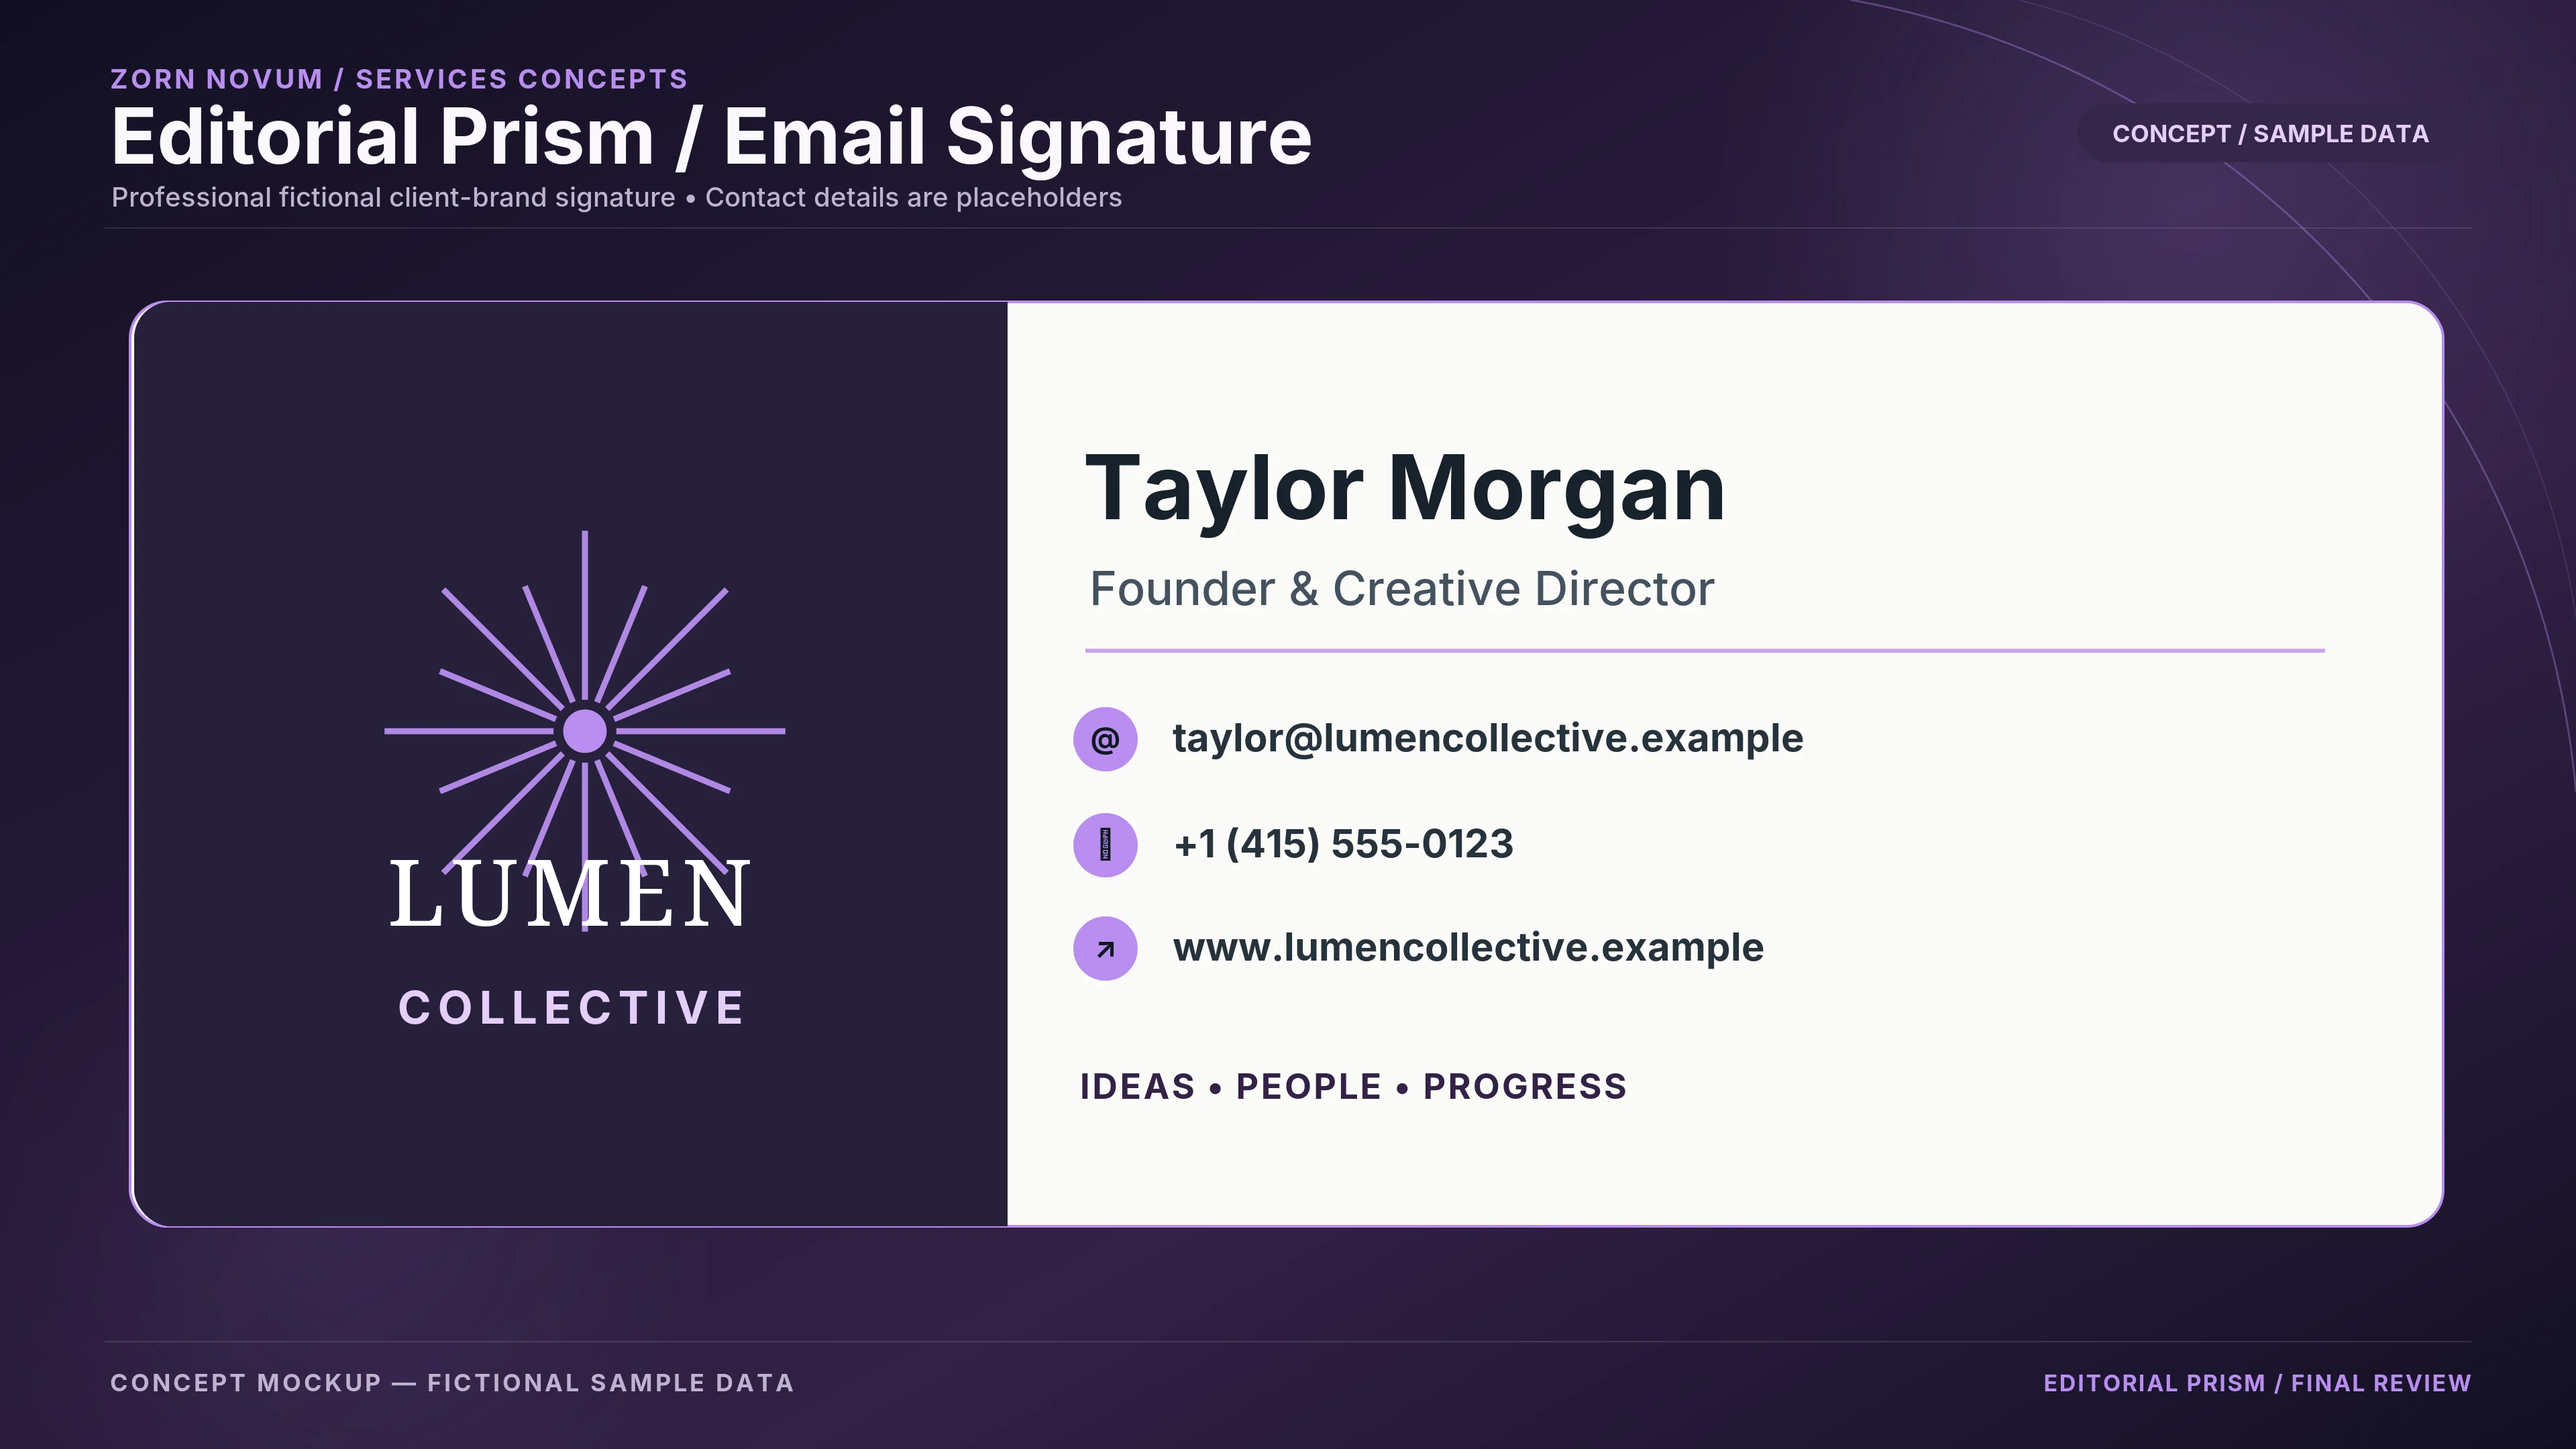
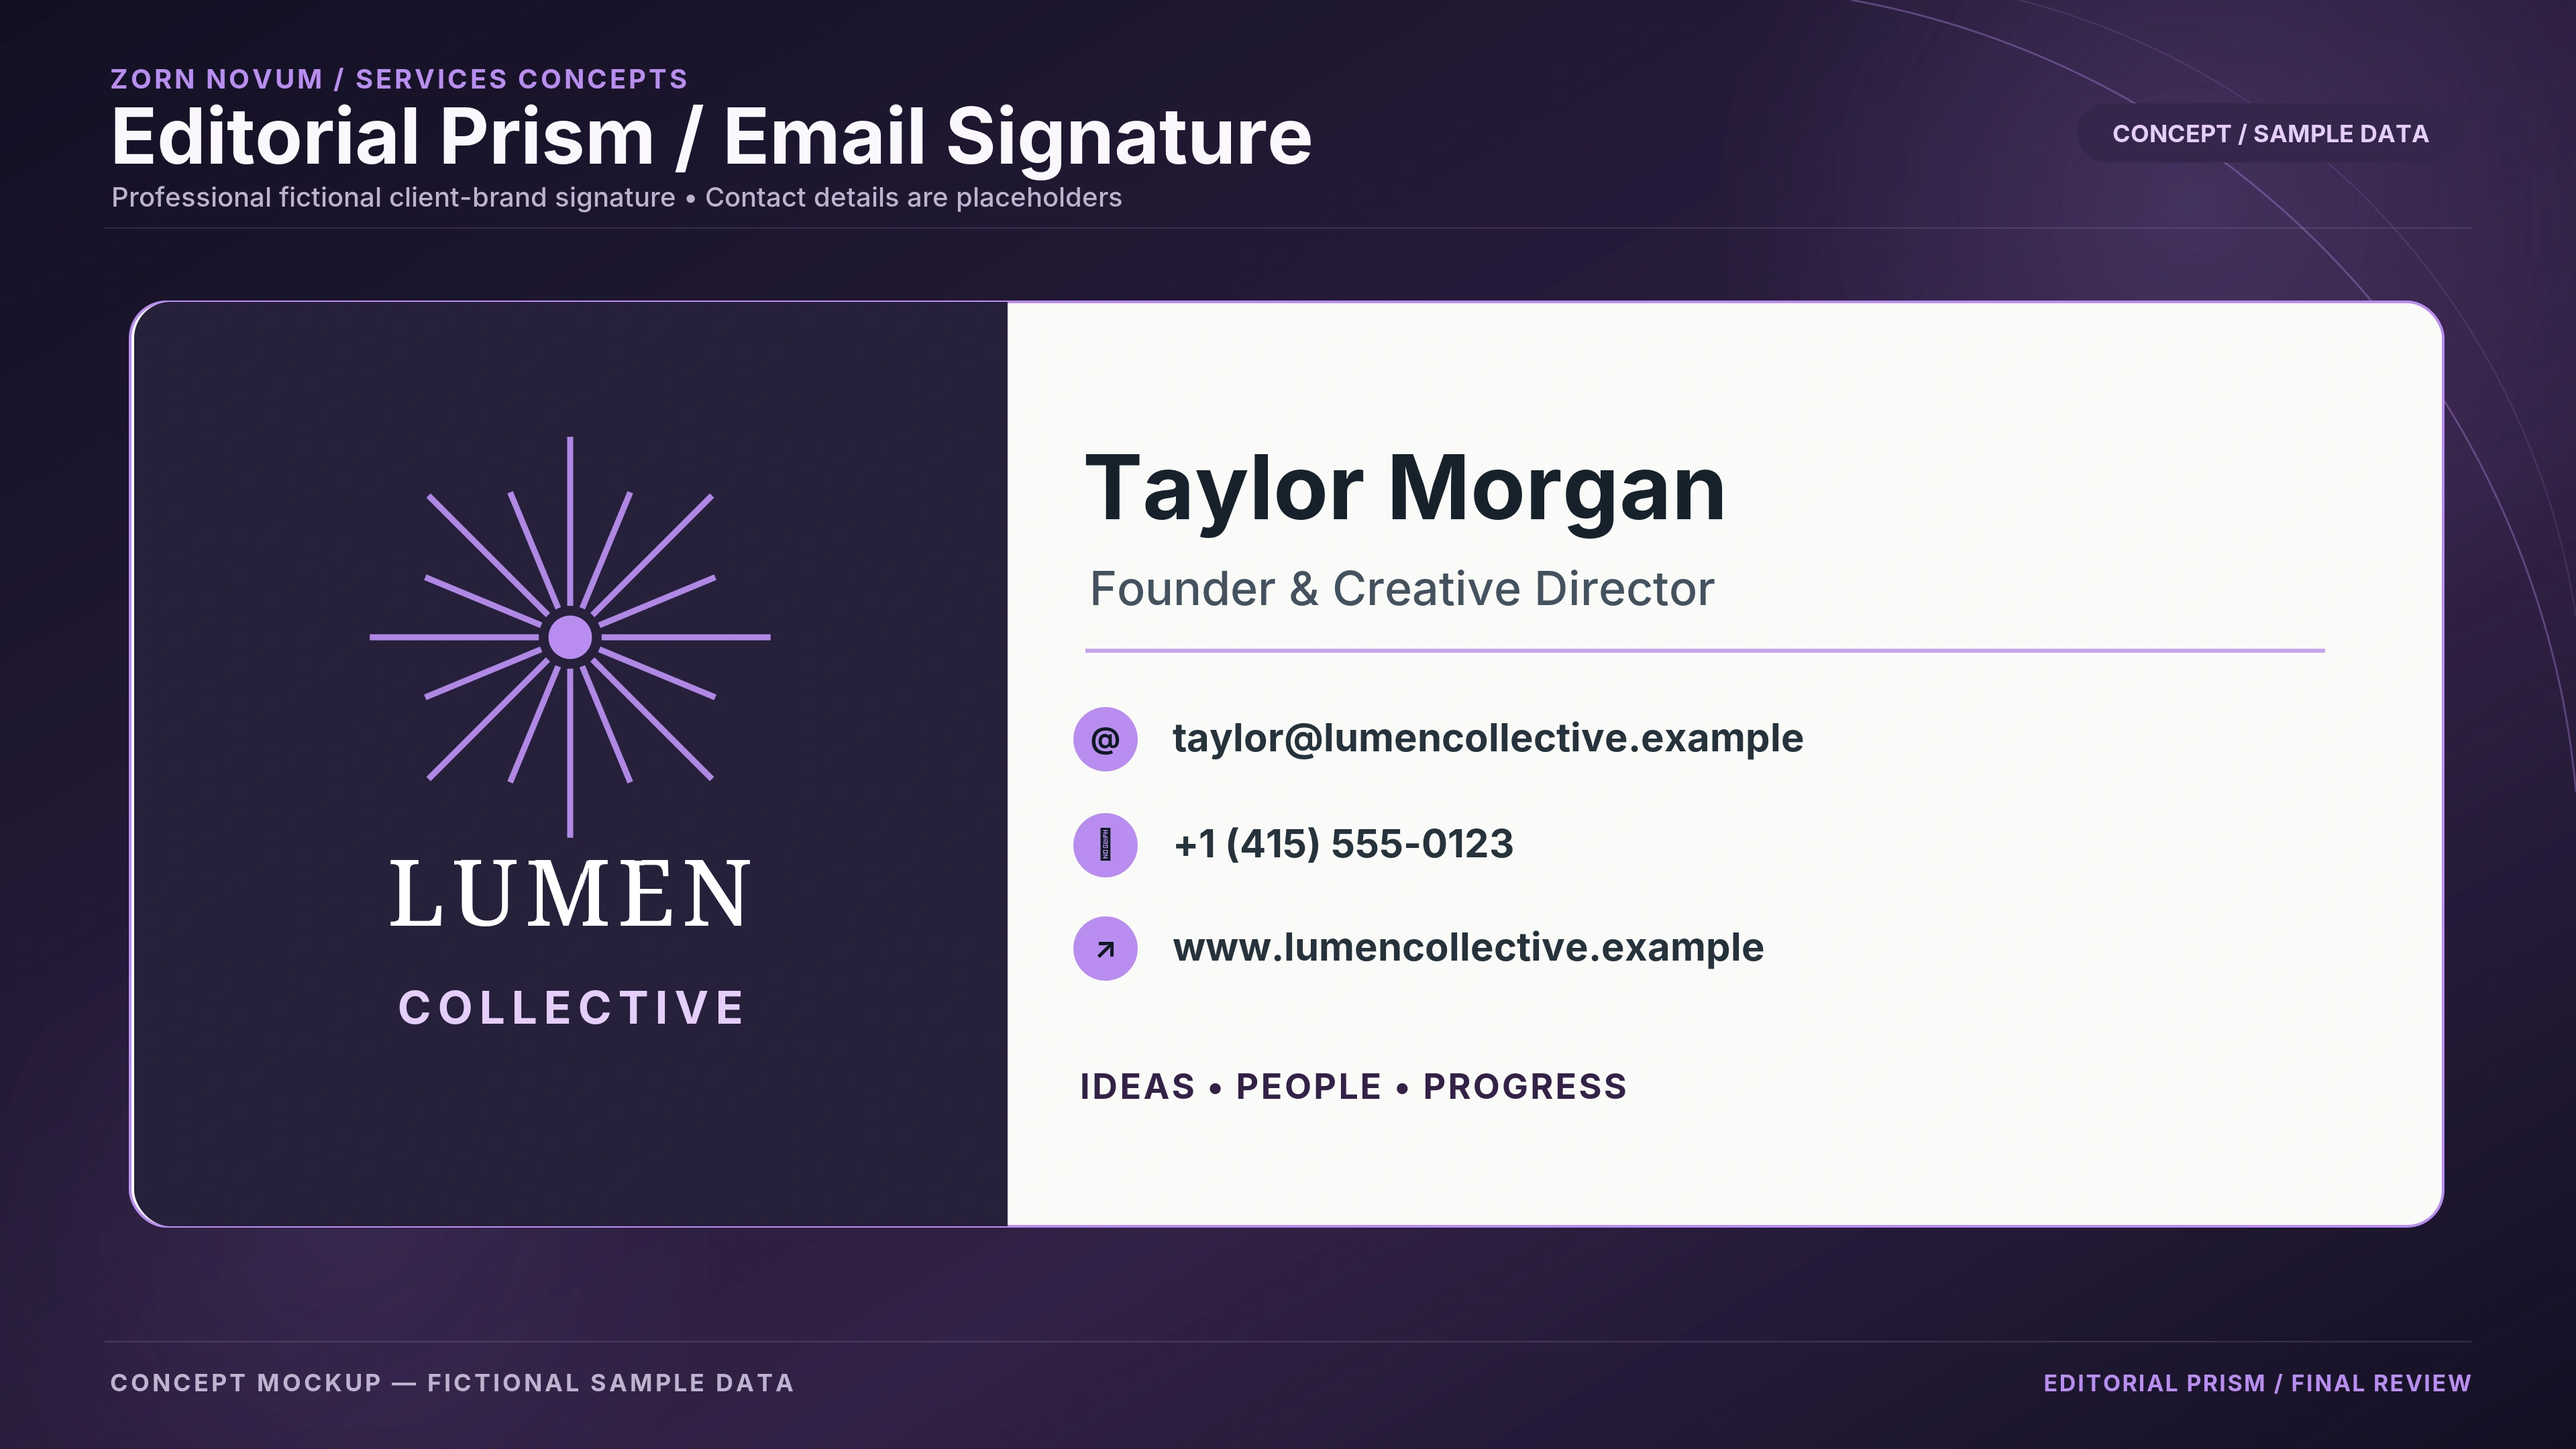
Center Lumen symbols above signature wordmarks

Changed region(s): [[0.1562, 0.3412, 0.3125, 0.5894], [0.1562, 0.3412, 0.1875, 0.3722]]

diff --git a/services.html b/services.html
@@ -112,8 +112,8 @@
   <figcaption><span class="zn-concept-direction">Startup Momentum</span><h3>Graphics package</h3><p>A coordinated fictional identity across a logo, promotional graphic and email signature.</p><p class="zn-concept-disclosure">Concept mockup — fictional sample data.</p><nav class="zn-component-links" aria-label="Startup Momentum graphics details"><a href="/assets/service-showcase/startup-momentum-logo-concept.webp" target="_blank" rel="noopener" data-concept="startup-momentum-logo-concept" data-title="Startup Momentum · Logo concept" data-caption="An illustrative logo and wordmark for a fictional business." data-alt="Startup Momentum fictional business logo identity presentation. The green and emerald styling distinguishes the design direction. Concept mockup; fictional sample data." data-max="1600" data-service="business-graphics-branding" aria-label="View Startup Momentum logo concept concept at a larger size">Logo concept</a><a href="/assets/service-showcase/startup-momentum-advertisement.webp" target="_blank" rel="noopener" data-concept="startup-momentum-advertisement" data-title="Startup Momentum · Promotional graphic" data-caption="A fictional promotional design combining a brand identity, headline and imagery." data-alt="Startup Momentum fictional promotional advertisement with branded headline and call-to-action. The green and emerald styling distinguishes the design direction. Concept mockup; fictional sample data." data-max="1300" data-service="business-graphics-branding" aria-label="View Startup Momentum promotional graphic concept at a larger size">Promotional graphic</a><a href="/assets/service-showcase/startup-momentum-email-signature.webp" target="_blank" rel="noopener" data-concept="startup-momentum-email-signature" data-title="Startup Momentum · Email signature" data-caption="A branded email-signature layout with fictional contact details." data-alt="Startup Momentum fictional professional email signature with sample contact information. The green and emerald styling distinguishes the design direction. Concept mockup; fictional sample data." data-max="1600" data-service="business-graphics-branding" aria-label="View Startup Momentum email signature concept at a larger size">Email signature</a></nav></figcaption>
 </figure>
 <figure class="zn-concept-card" id="concept-editorial-prism-graphics-package" data-featured="true" data-type="graphics_package" data-direction="Editorial Prism">
-  <a class="zn-concept-open" href="/assets/service-showcase/editorial-prism-graphics-package.webp" target="_blank" rel="noopener" data-concept="editorial-prism-graphics-package" data-title="Editorial Prism · Graphics package" data-caption="A coordinated fictional identity across a logo, promotional graphic and email signature." data-alt="Editorial Prism coordinated fictional branding package showing a company logo, advertisement and email signature. The lavender and purple styling distinguishes the design direction. Concept mockup; fictional sample data." data-max="1300" data-service="business-graphics-branding" aria-label="View Editorial Prism graphics package concept at a larger size"><img src="/assets/service-showcase/editorial-prism-graphics-package-640.webp" srcset="/assets/service-showcase/editorial-prism-graphics-package-640.webp 640w, /assets/service-showcase/editorial-prism-graphics-package-960.webp 960w" sizes="(max-width:620px) 90vw, (max-width:1050px) 44vw, (max-width:1440px) 29vw, 424px" width="640" height="360" loading="lazy" decoding="async" alt="Editorial Prism coordinated fictional branding package showing a company logo, advertisement and email signature. The lavender and purple styling distinguishes the design direction. Concept mockup; fictional sample data."><span>View larger <span aria-hidden="true">↗</span></span></a>
-  <figcaption><span class="zn-concept-direction">Editorial Prism</span><h3>Graphics package</h3><p>A coordinated fictional identity across a logo, promotional graphic and email signature.</p><p class="zn-concept-disclosure">Concept mockup — fictional sample data.</p><nav class="zn-component-links" aria-label="Editorial Prism graphics details"><a href="/assets/service-showcase/editorial-prism-logo-concept.webp" target="_blank" rel="noopener" data-concept="editorial-prism-logo-concept" data-title="Editorial Prism · Logo concept" data-caption="An illustrative logo and wordmark for a fictional business." data-alt="Editorial Prism fictional business logo identity presentation. The lavender and purple styling distinguishes the design direction. Concept mockup; fictional sample data." data-max="1600" data-service="business-graphics-branding" aria-label="View Editorial Prism logo concept concept at a larger size">Logo concept</a><a href="/assets/service-showcase/editorial-prism-advertisement.webp" target="_blank" rel="noopener" data-concept="editorial-prism-advertisement" data-title="Editorial Prism · Promotional graphic" data-caption="A fictional promotional design combining a brand identity, headline and imagery." data-alt="Editorial Prism fictional promotional advertisement with branded headline and call-to-action. The lavender and purple styling distinguishes the design direction. Concept mockup; fictional sample data." data-max="1300" data-service="business-graphics-branding" aria-label="View Editorial Prism promotional graphic concept at a larger size">Promotional graphic</a><a href="/assets/service-showcase/editorial-prism-email-signature.webp" target="_blank" rel="noopener" data-concept="editorial-prism-email-signature" data-title="Editorial Prism · Email signature" data-caption="A branded email-signature layout with fictional contact details." data-alt="Editorial Prism fictional professional email signature with sample contact information. The lavender and purple styling distinguishes the design direction. Concept mockup; fictional sample data." data-max="1600" data-service="business-graphics-branding" aria-label="View Editorial Prism email signature concept at a larger size">Email signature</a></nav></figcaption>
+  <a class="zn-concept-open" href="/assets/service-showcase/editorial-prism-graphics-package.webp?v=lumen-align-20261028" target="_blank" rel="noopener" data-concept="editorial-prism-graphics-package" data-title="Editorial Prism · Graphics package" data-caption="A coordinated fictional identity across a logo, promotional graphic and email signature." data-alt="Editorial Prism coordinated fictional branding package showing a company logo, advertisement and email signature. The lavender and purple styling distinguishes the design direction. Concept mockup; fictional sample data." data-max="1300" data-service="business-graphics-branding" aria-label="View Editorial Prism graphics package concept at a larger size"><img src="/assets/service-showcase/editorial-prism-graphics-package-640.webp?v=lumen-align-20261028" srcset="/assets/service-showcase/editorial-prism-graphics-package-640.webp?v=lumen-align-20261028 640w, /assets/service-showcase/editorial-prism-graphics-package-960.webp?v=lumen-align-20261028 960w" sizes="(max-width:620px) 90vw, (max-width:1050px) 44vw, (max-width:1440px) 29vw, 424px" width="640" height="360" loading="lazy" decoding="async" alt="Editorial Prism coordinated fictional branding package showing a company logo, advertisement and email signature. The lavender and purple styling distinguishes the design direction. Concept mockup; fictional sample data."><span>View larger <span aria-hidden="true">↗</span></span></a>
+  <figcaption><span class="zn-concept-direction">Editorial Prism</span><h3>Graphics package</h3><p>A coordinated fictional identity across a logo, promotional graphic and email signature.</p><p class="zn-concept-disclosure">Concept mockup — fictional sample data.</p><nav class="zn-component-links" aria-label="Editorial Prism graphics details"><a href="/assets/service-showcase/editorial-prism-logo-concept.webp" target="_blank" rel="noopener" data-concept="editorial-prism-logo-concept" data-title="Editorial Prism · Logo concept" data-caption="An illustrative logo and wordmark for a fictional business." data-alt="Editorial Prism fictional business logo identity presentation. The lavender and purple styling distinguishes the design direction. Concept mockup; fictional sample data." data-max="1600" data-service="business-graphics-branding" aria-label="View Editorial Prism logo concept concept at a larger size">Logo concept</a><a href="/assets/service-showcase/editorial-prism-advertisement.webp" target="_blank" rel="noopener" data-concept="editorial-prism-advertisement" data-title="Editorial Prism · Promotional graphic" data-caption="A fictional promotional design combining a brand identity, headline and imagery." data-alt="Editorial Prism fictional promotional advertisement with branded headline and call-to-action. The lavender and purple styling distinguishes the design direction. Concept mockup; fictional sample data." data-max="1300" data-service="business-graphics-branding" aria-label="View Editorial Prism promotional graphic concept at a larger size">Promotional graphic</a><a href="/assets/service-showcase/editorial-prism-email-signature.webp?v=lumen-align-20261028" target="_blank" rel="noopener" data-concept="editorial-prism-email-signature" data-title="Editorial Prism · Email signature" data-caption="A branded email-signature layout with fictional contact details." data-alt="Editorial Prism fictional professional email signature with sample contact information. The lavender and purple styling distinguishes the design direction. Concept mockup; fictional sample data." data-max="1600" data-service="business-graphics-branding" aria-label="View Editorial Prism email signature concept at a larger size">Email signature</a></nav></figcaption>
 </figure></div>
   <div class="zn-showcase-expand"><button class="zn-button" id="concept-expand" type="button" aria-expanded="false" aria-controls="concept-grid" hidden>View all 15 concepts</button><a class="zn-textlink" href="#services-pricing-heading">Go to starting prices →</a></div>
   <p class="zn-showcase-scope">Every project is assessed individually. Features shown in a concept, including accounts, file sharing, messaging and reporting, are subject to an agreed scope, technical assessment and quote. A concept does not define what is included at a starting price.</p>
